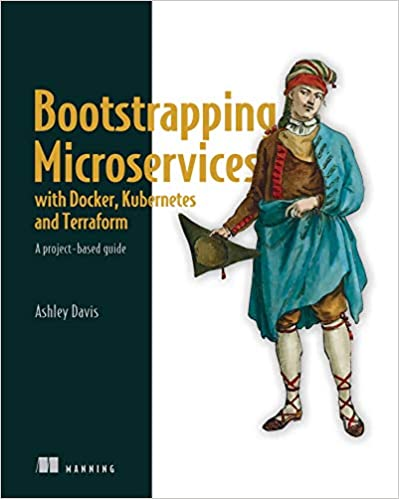
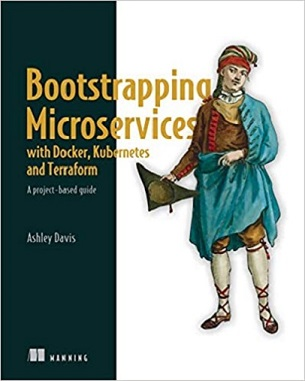
book review updates

diff --git a/books.html b/books.html
@@ -17,7 +17,7 @@ However i acknowledge that writing a book is a very difficult job and i do not h
 
   <tr>
     <td>
-      <img width="200" height="240" src="{{ site.url }}{{ site.baseurl }}/assets/img/books/2-bootstraping-microservices.jpg">
+      <img src="{{ site.url }}{{ site.baseurl }}/assets/img/books/2-bootstraping-microservices.jpg">
     </td>
     <td style="vertical-align: top; padding-left: 5px; padding-top: 10px; font: 18px Arial, sans-serif;">
       <b><a href="https://www.amazon.com/Bootstrapping-Microservices-Docker-Kubernetes-Terraform/dp/1617297216/ref=sr_1_1?crid=27ZLBP9SRBPME&dchild=1&keywords=bootstrapping+microservices+with+docker%2C+kubernetes%2C+and+terraform&qid=1613839568&s=books&sprefix=bootstrap%2Caps%2C349&sr=1-1">
@@ -38,22 +38,48 @@ However i acknowledge that writing a book is a very difficult job and i do not h
       <br><br>
 
       <b>Comments: </b><br>
-      A very good book that explains these diffcult topics in practical terms with a case study.
+      Very good book that explains these difficult topics in practical terms by means of a scenario. Such books, which combine theory with practical example, are best means of learning.
       </td>
   </tr>
 
-
-<tr><td bgcolor="white" colspan="2"><br></td></tr>
-
+  <tr><td bgcolor="white" colspan="2"><br></td></tr>
+  
   <tr>
-    <td><img width="200" height="240" src="{{ site.url }}{{ site.baseurl }}/assets/img/books/5-learn-helm.png"></td>
+    <td><img src="{{ site.url }}{{ site.baseurl }}/assets/img/books/2-k8s-docker-enterprise-guide.jpg"></td>
+    <td style="vertical-align: top; padding-left: 5px; padding-top: 10px; font: 18px Arial, sans-serif;">
+
+      <b><a href="https://www.amazon.com/Kubernetes-Docker-Effectively-containerize-applications/dp/183921340X/ref=sr_1_1?crid=18MVDUH3E1I8G&dchild=1&keywords=kubernetes+and+docker+-+an+enterprise+guide&qid=1613856886&s=books&sprefix=Kubernetes+and+Docker+%2Caps%2C361&sr=1-1">
+        Kubernetes and Docker - An Enterprise Guide</a>
+      </b><br>
+
+      Effectively containerize applications, integrate enterprise systems, and scale applications in your enterprise <br><br>
+      Scott Surovich, Marc Boorshtein<br>
+      November 6, 2020<br>
+      526 pages<br><br>
+
+      <b>Rating:</b> 
+        <span class="fa fa-star checked"></span>
+        <span class="fa fa-star checked"></span>
+        <span class="fa fa-star checked"></span>
+        <span class="fa fa-star checked"></span>
+        <span class="fa fa-star checked"></span>
+      <br><br>
+
+      <b>Review comments: </b><br>
+      This book is Not for Kubernetes beginner. It is not an easy book to read.<br>
+      But if your basics of kubernetes are clear and you have been using it in your enterprise, this book gives you a lot of learning and insights from enterprise usage standpoint.
+      </td>
+  </tr>
+
+  <tr><td bgcolor="white" colspan="2"><br></td></tr>
+  
+  <tr>
+    <td><img src="{{ site.url }}{{ site.baseurl }}/assets/img/books/5-learn-helm.png"></td>
     <td style="vertical-align: top; padding-left: 5px; padding-top: 10px; font: 18px Arial, sans-serif;">
 
       <b><a href="https://www.amazon.com/Learn-Helm-productivity-complexity-cloud-native/dp/1839214295/ref=sr_1_1?crid=3J1NIUTX089YL&dchild=1&keywords=learn+helm&qid=1613838710&s=books&sprefix=learn+helm%2Caps%2C452&sr=1-1">
         Learn Helm</a>
       </b><br>
-
-
       Improve productivity, reduce complexity, and speed up cloud-native adoption with Helm for Kubernetes<br>
       <br>
       Andrew Block, Austin Dewey<br>
@@ -68,7 +94,7 @@ However i acknowledge that writing a book is a very difficult job and i do not h
         <span class="fa fa-star checked"></span>
       <br><br>
 
-      <b>Comments: </b><br>
+      <b>Review comments: </b><br>
       Helm is an integral part of Kubernetes deployments and this is a good book to learn it.
       </td>
   </tr>
